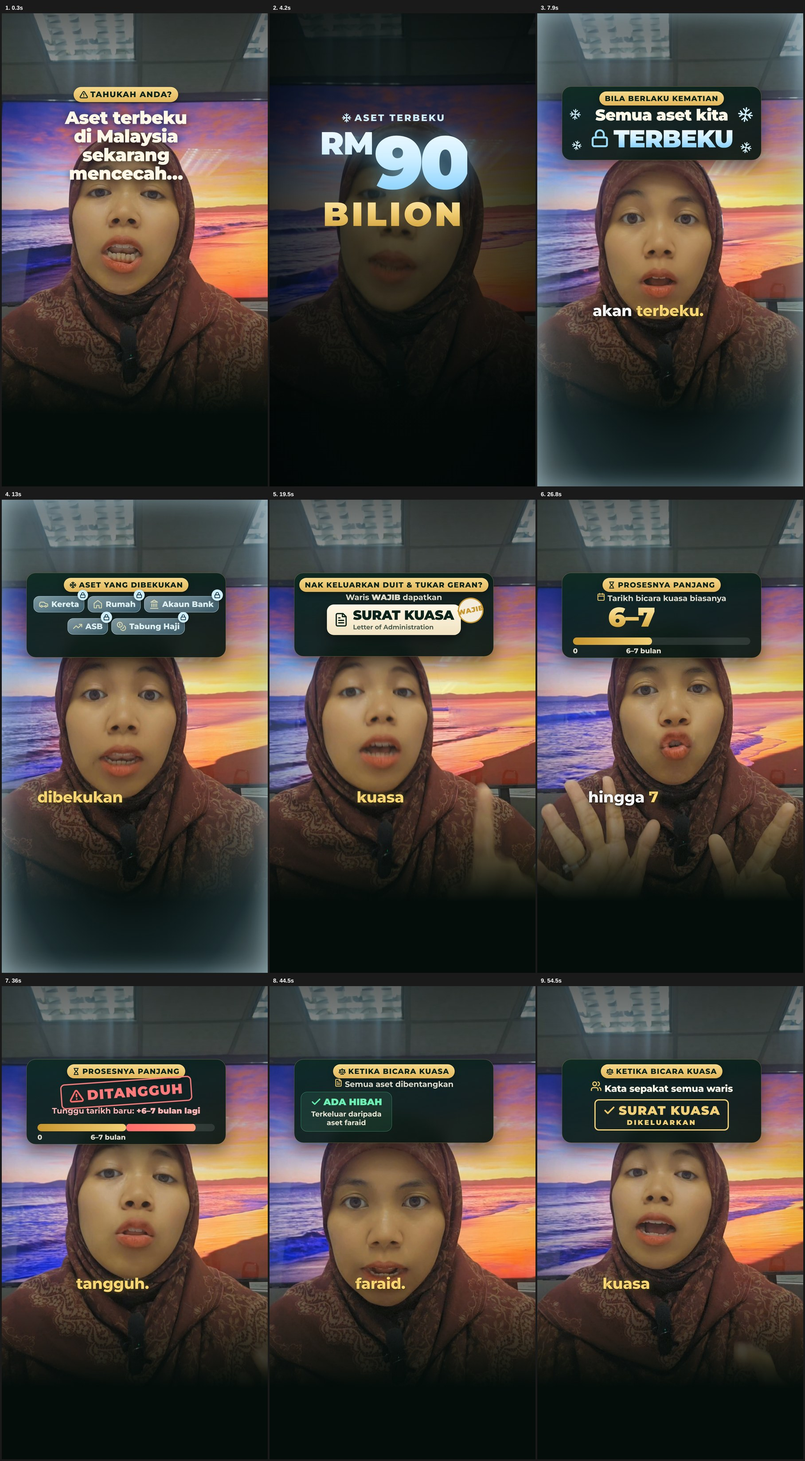
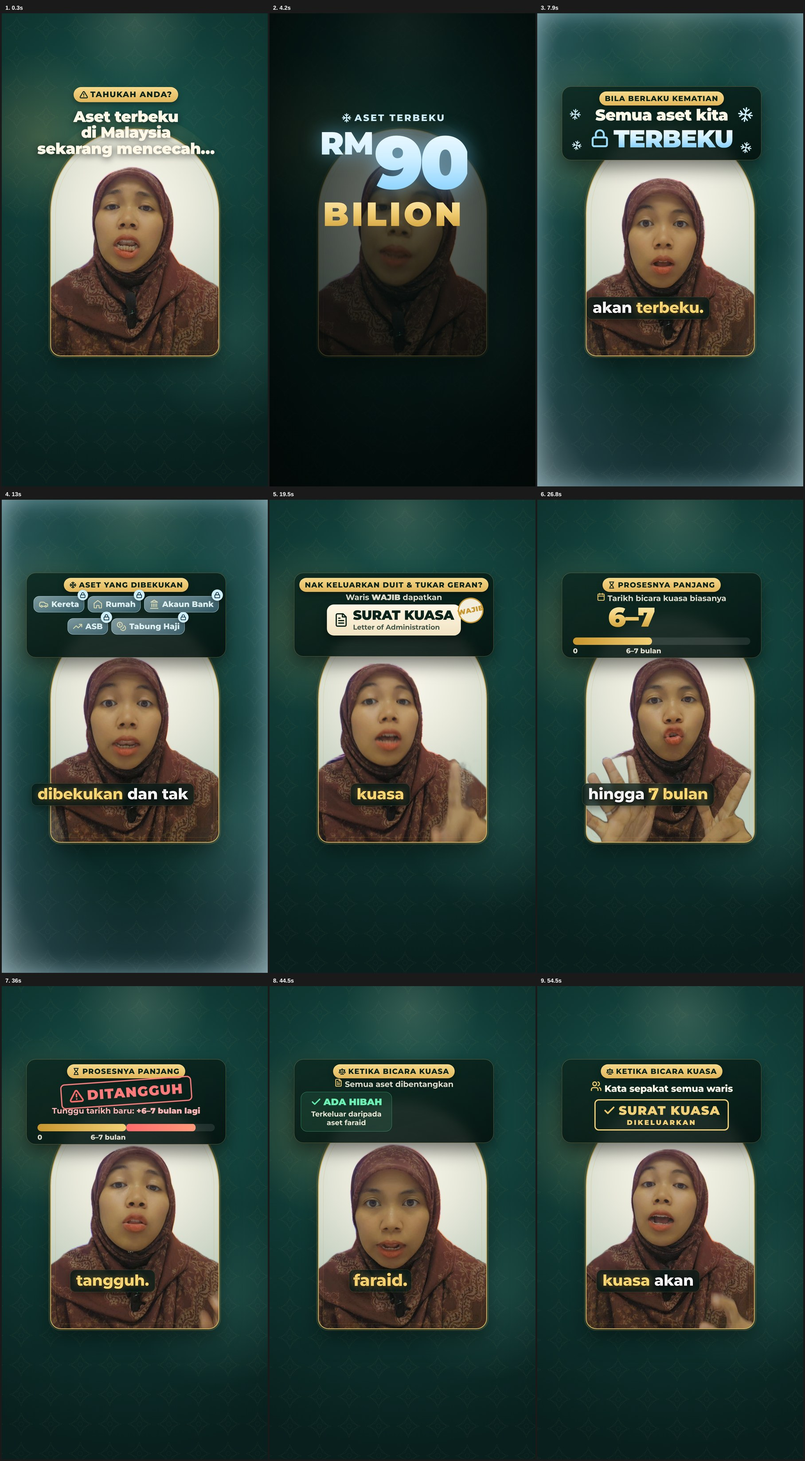
Use the full-length matte; show caption groups whole with a word pulse
Claude-Session: https://claude.ai/code/session_01RHe32evRqHmnTFSgiGWNc1

diff --git a/wasiyyah-reel/compositions/surat.html b/wasiyyah-reel/compositions/surat.html
@@ -37,7 +37,7 @@
     <div class="panel" id="su-panel" style="height:340px">
       <div class="krow"><span class="kick" id="su-kick">Nak keluarkan duit &amp; tukar geran?</span></div>
       <div class="row" style="top:80px"><span class="t-sm" id="su-l1">Waris <b>WAJIB</b> dapatkan</span></div>
-      <div class="row" style="top:128px"><div class="doc" id="su-doc"><svg class="ico" width="60" height="60" viewBox="0 0 24 24" fill="none" stroke="#0A241C" stroke-width="2" stroke-linecap="round" stroke-linejoin="round"><path d="M15 2H6a2 2 0 0 0-2 2v16a2 2 0 0 0 2 2h12a2 2 0 0 0 2-2V7z"/><path d="M14 2v5h5"/><path d="M16 13H8"/><path d="M16 17H8"/><path d="M10 9H8"/></svg><div style="text-align:left"><div style="font-weight:900;font-size:54px;letter-spacing:-.01em;line-height:1" id="su-title">SURAT KUASA</div><div style="font-weight:700;font-size:26px;opacity:.7;margin-top:6px">Letter of Administration</div></div></div></div>
+      <div class="row" style="top:128px"><div class="doc" id="su-doc"><svg class="ico" width="60" height="60" viewBox="0 0 24 24" fill="none" stroke="#0A241C" stroke-width="2" stroke-linecap="round" stroke-linejoin="round"><path d="M15 2H6a2 2 0 0 0-2 2v16a2 2 0 0 0 2 2h12a2 2 0 0 0 2-2V7z"/><path d="M14 2v5h5"/><path d="M16 13H8"/><path d="M16 17H8"/><path d="M10 9H8"/></svg><div style="text-align:left"><div style="font-weight:900;font-size:54px;letter-spacing:-.01em;line-height:1" id="su-title">SURAT KUASA</div><div style="font-weight:700;font-size:28px;opacity:.75;margin-top:6px">Letter of Administration</div></div></div></div>
       <div class="seal" id="su-seal">WAJIB</div>
       <div class="row" style="top:262px"><span class="pill" id="su-p1"><svg class="ico" width="34" height="34" viewBox="0 0 24 24" fill="none" stroke="#E9C46A" stroke-width="2.4" stroke-linecap="round" stroke-linejoin="round"><path d="M3 6l6-3 6 3 6-3v15l-6 3-6-3-6 3z"/><path d="M9 3v15"/><path d="M15 6v15"/></svg> Pejabat Tanah</span><span class="t-sm" id="su-or">atau</span><span class="pill" id="su-p2"><svg class="ico" width="34" height="34" viewBox="0 0 24 24" fill="none" stroke="#E9C46A" stroke-width="2.4" stroke-linecap="round" stroke-linejoin="round"><path d="M16 16l3-8 3 8c-.87.65-1.92 1-3 1s-2.13-.35-3-1z"/><path d="M2 16l3-8 3 8c-.87.65-1.92 1-3 1s-2.13-.35-3-1z"/><path d="M7 21h10"/><path d="M12 3v18"/><path d="M3 7h2c2 0 5-1 7-2 2 1 5 2 7 2h2"/></svg> Mahkamah Tinggi</span></div>
     </div>

diff --git a/wasiyyah-reel/compositions/captions.html b/wasiyyah-reel/compositions/captions.html
@@ -132,10 +132,12 @@
     const tl = gsap.timeline({ paused: true });
     document.querySelectorAll('#captions .grp').forEach((g) => {
       const a = +g.dataset.a, b = +g.dataset.b;
-      tl.set(g, { opacity: 1, visibility: 'visible' }, a);
+      tl.set(g, { visibility: 'visible' }, a);
+      tl.fromTo(g, { opacity: 0 }, { opacity: 1, duration: 0.08, immediateRender: false }, a);
+      tl.fromTo(g.querySelector('.pb'), { y: 18, scale: 0.9 }, { y: 0, scale: 1, duration: 0.2, ease: 'back.out(2.2)', immediateRender: false }, a);
       g.querySelectorAll('.w').forEach((w) => {
-        const t = Math.max(a, +w.dataset.t - 0.04);
-        tl.fromTo(w, { opacity: 0, y: 22, scale: 0.86 }, { opacity: 1, y: 0, scale: 1, duration: 0.16, ease: 'back.out(2.4)' }, t);
+        const t = Math.max(a, +w.dataset.t - 0.03);
+        tl.fromTo(w, { scale: 1 }, { scale: 1.1, duration: 0.1, yoyo: true, repeat: 1, ease: 'power2.out', immediateRender: false }, t);
       });
       tl.to(g, { opacity: 0, duration: 0.1, ease: 'power2.in' }, b - 0.1);
       tl.set(g, { opacity: 0, visibility: 'hidden' }, b);

diff --git a/wasiyyah-reel/tools/build.py b/wasiyyah-reel/tools/build.py
@@ -189,7 +189,7 @@ add_scene("surat", s0, s1, """
     <div class="panel" id="su-panel" style="height:340px">
       <div class="krow"><span class="kick" id="su-kick">Nak keluarkan duit &amp; tukar geran?</span></div>
       <div class="row" style="top:80px"><span class="t-sm" id="su-l1">Waris <b>WAJIB</b> dapatkan</span></div>
-      <div class="row" style="top:128px"><div class="doc" id="su-doc">{icon('file',60,'#0A241C',2)}<div style="text-align:left"><div style="font-weight:900;font-size:54px;letter-spacing:-.01em;line-height:1" id="su-title">SURAT KUASA</div><div style="font-weight:700;font-size:26px;opacity:.7;margin-top:6px">Letter of Administration</div></div></div></div>
+      <div class="row" style="top:128px"><div class="doc" id="su-doc">{icon('file',60,'#0A241C',2)}<div style="text-align:left"><div style="font-weight:900;font-size:54px;letter-spacing:-.01em;line-height:1" id="su-title">SURAT KUASA</div><div style="font-weight:700;font-size:28px;opacity:.75;margin-top:6px">Letter of Administration</div></div></div></div>
       <div class="seal" id="su-seal">WAJIB</div>
       <div class="row" style="top:262px"><span class="pill" id="su-p1">{icon('map',34,GOLD,2.4)} Pejabat Tanah</span><span class="t-sm" id="su-or">atau</span><span class="pill" id="su-p2">{icon('scale',34,GOLD,2.4)} Mahkamah Tinggi</span></div>
     </div>
@@ -531,10 +531,12 @@ with open(os.path.join(PROJ, "compositions", "captions.html"), "w") as f:
     const tl = gsap.timeline({{ paused: true }});
     document.querySelectorAll('#captions .grp').forEach((g) => {{
       const a = +g.dataset.a, b = +g.dataset.b;
-      tl.set(g, {{ opacity: 1, visibility: 'visible' }}, a);
+      tl.set(g, {{ visibility: 'visible' }}, a);
+      tl.fromTo(g, {{ opacity: 0 }}, {{ opacity: 1, duration: 0.08, immediateRender: false }}, a);
+      tl.fromTo(g.querySelector('.pb'), {{ y: 18, scale: 0.9 }}, {{ y: 0, scale: 1, duration: 0.2, ease: 'back.out(2.2)', immediateRender: false }}, a);
       g.querySelectorAll('.w').forEach((w) => {{
-        const t = Math.max(a, +w.dataset.t - 0.04);
-        tl.fromTo(w, {{ opacity: 0, y: 22, scale: 0.86 }}, {{ opacity: 1, y: 0, scale: 1, duration: 0.16, ease: 'back.out(2.4)' }}, t);
+        const t = Math.max(a, +w.dataset.t - 0.03);
+        tl.fromTo(w, {{ scale: 1 }}, {{ scale: 1.1, duration: 0.1, yoyo: true, repeat: 1, ease: 'power2.out', immediateRender: false }}, t);
       }});
       tl.to(g, {{ opacity: 0, duration: 0.1, ease: 'power2.in' }}, b - 0.1);
       tl.set(g, {{ opacity: 0, visibility: 'hidden' }}, b);
